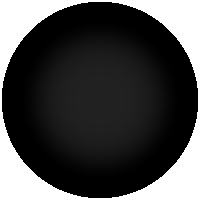
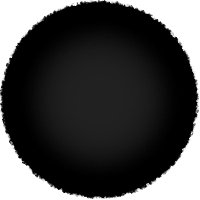
Olfactory
The olfactory (smell) cells now work! This allows organisms to "smell" nearby dead cells as inputs to the neural network. There has been more modifications to the images - including the background image as well.

diff --git a/sprites.py b/sprites.py
@@ -63,6 +63,7 @@ training_dopamine_threshold = 1.
 age_limit = 200
 
 eyesight_multiplier = 10 # This multiplied by an eye cell's size is how far away that eye can see
+olfactory_multiplier = 15 # This multiplied by an olfactory cell's size is how far away that organism can smell dead cells
 
 base_cell_info = {
     "health": {
@@ -223,10 +224,13 @@ def eye_segment_handler(arbiter, space, data):
         return False
     if arbiter.shapes[1].sensor:
         return False
+
     sensor = arbiter.shapes[0].sprite
     sprite = arbiter.shapes[1].sprite
+
     if not sensor.alive:
         return False
+
     if sensor.organism != sprite.organism:
         if not sprite in sensor.info["view"]:
             sensor.info["view"].append(sprite)
@@ -929,11 +933,12 @@ class Organism():
             "health": cell_info["max_health"],
             "energy": cell_info["energy_storage"]/2,
             "in_use": False,
-            "sight": [],
+            "detection_items": [],
             "view": [],
             "removed": False,
             "colliding": [],
-            "sight_range": 0.0
+            "sight_range": 0.0,
+            "smell_range": 0.0
         }
         newCell.alive = alive
         newCell.isBubble = False
@@ -952,7 +957,19 @@ class Organism():
 
             joint = pymunk.PinJoint(newBody, newCell.body, [0,0], [0,0])
 
-            newCell.info["sight"] = [newBody, newShape, joint]
+            newCell.info["detection_items"] = [newBody, newShape, joint]
+        elif cell_info["type"] == "olfactory" and newCell.alive:
+            newCell.info["smell_range"] = cell_info["size"] * olfactory_multiplier
+
+            newBody, newShape = physics.makeCircle( newCell.info["smell_range"], friction=0.0, elasticity=0.0, mass=1 )
+            newShape.sensor = True
+            newShape.collision_type = 1
+            newShape.sprite = newCell
+            newBody.position = pos
+
+            joint = pymunk.PinJoint(newBody, newCell.body, [0,0], [0,0])
+
+            newCell.info["detection_items"] = [newBody, newShape, joint]
 
         return newCell
 
@@ -1150,7 +1167,7 @@ class Organism():
         sprite.info["removed"] = True
         self.environment.add_sprite(newCell)
 
-        self.environment.space.remove(*sprite.info["sight"])
+        self.environment.space.remove(*sprite.info["detection_items"])
 
         newCell.body.velocity = sprite.body.velocity
         newCell.body.angular_velocity = sprite.body.angular_velocity
@@ -1291,8 +1308,8 @@ class Organism():
         if not sprite.alive:
             return
 
-        if cell_info["type"] == "eye":
-            cShape = sprite.info["sight"][1]
+        if cell_info["type"] == "eye" or cell_info["type"] == "olfactory":
+            cShape = sprite.info["detection_items"][1]
             for cell in sprite.info["view"][:]:
                 if not cShape.shapes_collide(cell.shape).points or cell.info["removed"]:
                     sprite.info["view"].remove(cell)
@@ -1535,7 +1552,7 @@ class Organism():
         for cell_id in self.cells:
             sprite = self.cells[cell_id]
             self.environment.add_sprite(sprite)
-            self.environment.space.add(*sprite.info["sight"])
+            self.environment.space.add(*sprite.info["detection_items"])
 
         for cell_id in self.cells:
             sprite = self.cells[cell_id]
@@ -1616,7 +1633,7 @@ def make_bubble(environment):
         "health": 0,
         "energy": 0,
         "in_use": False,
-        "sight": [],
+        "detection_items": [],
         "view": [],
         "removed": False,
         "colliding": [],
@@ -1624,10 +1641,6 @@ def make_bubble(environment):
     }
 
     environment.add_sprite(bubble)
-
-    #joint = pymunk.PinJoint(newBody, newCell.body, [0,0], [0,0])
-
-    #newCell.info["sight"] = [newBody, newShape, joint]
 
 def update_organisms(environment):
     # For this to work properly the environment must have the variable `lastUpdated` which holds a time.time() value

diff --git a/neural.py b/neural.py
@@ -181,6 +181,28 @@ def activate(network, environment, organism, uDiff):
                             eye_input[7] = inputVal
 
         return eye_input
+    def _get_olfactory_input(cell_id, environment, organism):
+        smell_input = 0.0
+
+        sprite = organism.cells[cell_id]
+        sprite_pos = sprite.getPos()
+
+        if not sprite.alive:
+            return smell_input
+
+        for cell in sprite.info["view"]:
+            if cell.alive:
+                continue
+            cell_pos = cell.getPos()
+
+            distance = calculateDistance(sprite_pos[0], sprite_pos[1], cell_pos[0], cell_pos[1])
+            inputVal = ( sprite.info["smell_range"] - (distance + cell.radius) ) / sprite.info["smell_range"]
+            inputVal = positive(inputVal)
+
+            if inputVal > smell_input:
+                smell_input = inputVal
+
+        return smell_input
 
     def _get_carn_input(cell_id, environment, organism):
         sprite = organism.cells[cell_id]
@@ -218,8 +240,10 @@ def activate(network, environment, organism, uDiff):
             cell_type = organism.dna.cells[correspondent]["type"]
             if cell_type == "eye":
                 input_val = _adv_get_eye_input(correspondent, environment, organism)
-            elif cell_type == "carniv":
-                input_val = _get_carn_input(correspondent, environment, organism)
+            elif cell_type == "olfactory":
+                input_val = _get_olfactory_input(correspondent, environment, organism)
+            #elif cell_type == "carniv":
+            #    input_val = _get_carn_input(correspondent, environment, organism)
         elif isinstance(correspondent, str):
             if correspondent == "health":
                 input_val = _get_health_input(organism)
@@ -374,8 +398,10 @@ def setup_network(dna, learning_rate=0.02, rnn=False, hiddenSize=8):
 
         if cell_info["type"] == "eye":
             base_input["visual"].append(cell_id)
-        elif cell_info["type"] == "carniv":
-            base_input["body"].append(cell_id)
+        elif cell_info["type"] == "olfactory":
+            base_input["chemical"].append(cell_id)
+        #elif cell_info["type"] == "carniv":
+        #    base_input["body"].append(cell_id)
 
     inputCells = []
     inputSize = 0
@@ -385,6 +411,11 @@ def setup_network(dna, learning_rate=0.02, rnn=False, hiddenSize=8):
     if base_input["visual"]:
         inputSize += len(base_input["visual"]) * output_lengths["adv_eye2"]
         for cell_id in base_input["visual"]:
+            inputCells.append(cell_id)
+
+    if base_input["chemical"]:
+        inputSize += len(base_input["chemical"])
+        for cell_id in base_input["chemical"]:
             inputCells.append(cell_id)
 
     if base_input["movement"]:

diff --git a/MainWindow.py b/MainWindow.py
@@ -243,7 +243,7 @@ class Ui_MainWindow(object):
         self.max_cell_range_spinbox.setToolTip("")
         self.max_cell_range_spinbox.setMinimum(2)
         self.max_cell_range_spinbox.setMaximum(999999999)
-        self.max_cell_range_spinbox.setProperty("value", 30)
+        self.max_cell_range_spinbox.setProperty("value", 25)
         self.max_cell_range_spinbox.setObjectName("max_cell_range_spinbox")
         self.dash = QtWidgets.QLabel(self.tab_2)
         self.dash.setGeometry(QtCore.QRect(200, 10, 21, 25))
@@ -392,7 +392,7 @@ class Ui_MainWindow(object):
         self.min_hid_val.setToolTip("")
         self.min_hid_val.setMinimum(1)
         self.min_hid_val.setMaximum(999)
-        self.min_hid_val.setProperty("value", 2)
+        self.min_hid_val.setProperty("value", 3)
         self.min_hid_val.setObjectName("min_hid_val")
         self.hidden_layers_label = QtWidgets.QLabel(self.tab_2)
         self.hidden_layers_label.setGeometry(QtCore.QRect(10, 115, 111, 25))
@@ -409,7 +409,7 @@ class Ui_MainWindow(object):
         self.max_hid_val.setToolTip("")
         self.max_hid_val.setMinimum(2)
         self.max_hid_val.setMaximum(999)
-        self.max_hid_val.setProperty("value", 6)
+        self.max_hid_val.setProperty("value", 12)
         self.max_hid_val.setObjectName("max_hid_val")
         self.Controls_Widget.addTab(self.tab_2, "")
         self.tab_3 = QtWidgets.QWidget()
